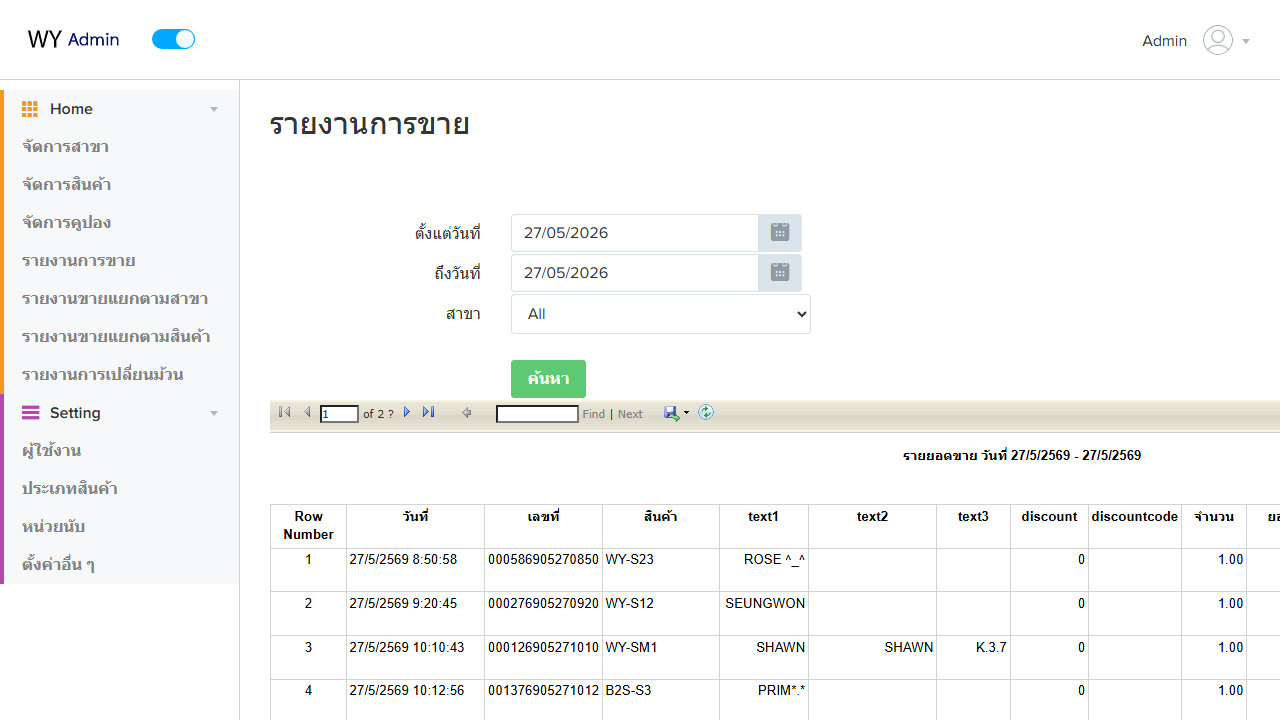
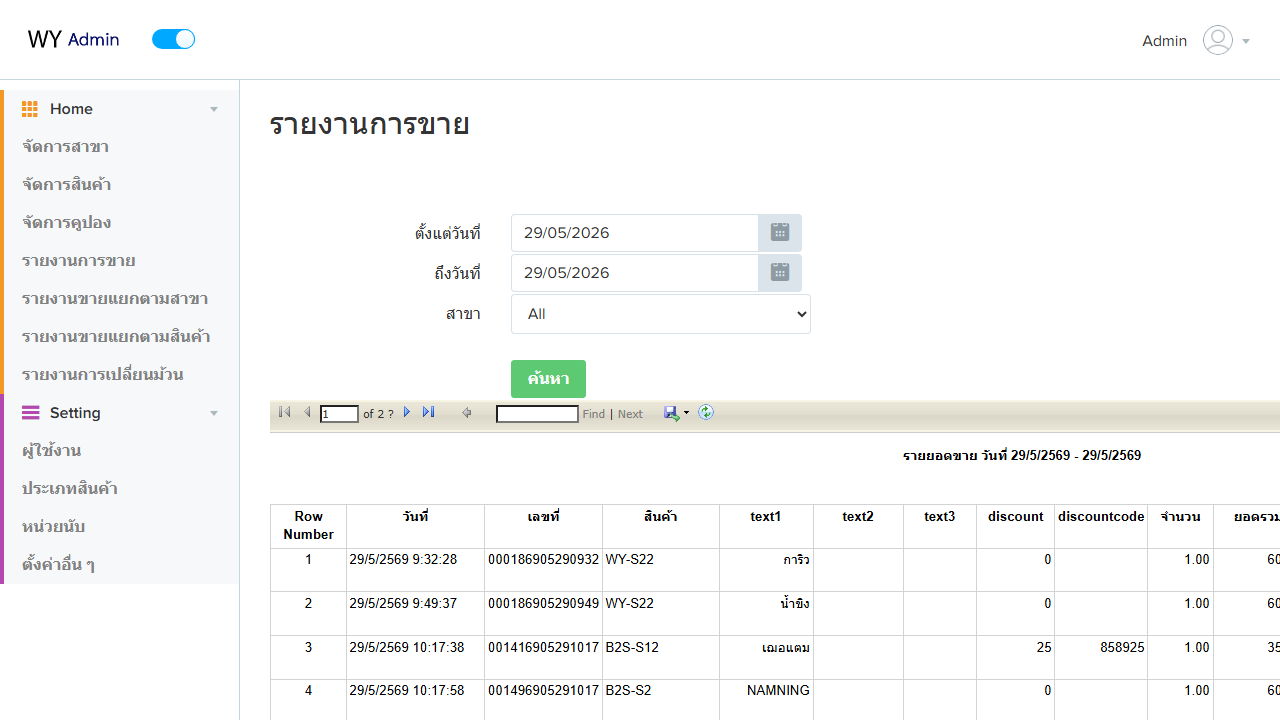
update_30/5/69

diff --git a/src/pages/Printer.tsx b/src/pages/Printer.tsx
@@ -2,6 +2,10 @@ import { useState, useEffect, useMemo, useCallback, useRef } from 'react'
 import { createPortal } from 'react-dom'
 import { supabase } from '../lib/supabase'
 import { fetchBranchOnlineMap } from '../lib/sheetCSV'
+import { useBranches } from '../hooks/useBranches'
+import { extractBranchNumForQueue } from '../lib/printerCommandQueue'
+import { extractBranchNum } from '../lib/printerStock'
+import type { Branch, StoreGroup } from '../types'
 import {
   DEFAULT_LOW_STOCK_THRESHOLD,
   ROWS_PER_ROLL,
@@ -99,6 +103,16 @@ function sortPrinters(printers: PrinterRecord[]): PrinterRecord[] {
   return [...printers].sort((a, b) => a.printer_id.localeCompare(b.printer_id))
 }
 
+function isPrinterNormal(p: PrinterRecord): boolean {
+  return p.status === 'online' || p.status === 'printing'
+}
+
+function filterProblemBranchGroups(groups: PrinterRecord[][]): PrinterRecord[][] {
+  return groups
+    .map((printers) => printers.filter((p) => !isPrinterNormal(p)))
+    .filter((printers) => printers.length > 0)
+}
+
 /** นาที — ถ้าสาขายังมีเครื่องที่ report อยู่ ให้ซ่อนเครื่องที่ไม่ report นานกว่านี้ (ลบออกจาก config แล้ว) */
 const STALE_PRINTER_MINUTES = 15
 
@@ -108,6 +122,43 @@ function filterActivePrinters(printers: PrinterRecord[]): PrinterRecord[] {
   const hasFresh = sorted.some((p) => minutesSince(p.timestamp) < STALE_PRINTER_MINUTES)
   if (!hasFresh) return sorted
   return sorted.filter((p) => minutesSince(p.timestamp) < STALE_PRINTER_MINUTES)
+}
+
+function buildBranchNumToStoreGroup(branches: Branch[]): Map<string, string> {
+  const map = new Map<string, string>()
+  for (const b of branches) {
+    const num = extractBranchNumForQueue(b.name)
+    if (num) map.set(num, b.store_group_id)
+    const norm = extractBranchNum(b.name)
+    if (norm) map.set(norm, b.store_group_id)
+  }
+  return map
+}
+
+function resolveStoreGroupId(
+  branchId: string | null | undefined,
+  branchName: string,
+  lookup: Map<string, string>
+): string | undefined {
+  const keys = new Set<string>()
+  const id = branchId?.trim()
+  if (id) {
+    keys.add(id)
+    const fromId = extractBranchNumForQueue(id)
+    if (fromId) keys.add(fromId)
+    const normId = extractBranchNum(id)
+    if (normId) keys.add(normId)
+  }
+  const fromName = extractBranchNumForQueue(branchName)
+  if (fromName) keys.add(fromName)
+  const normName = extractBranchNum(branchName)
+  if (normName) keys.add(normName)
+
+  for (const key of keys) {
+    const groupId = lookup.get(key)
+    if (groupId) return groupId
+  }
+  return undefined
 }
 
 function groupByBranch(records: PrinterRecord[]): PrinterRecord[][] {
@@ -393,8 +444,17 @@ function isBranchMachineOffline(
 
 export function Printer() {
   const { data, branchOnlineMap, loading, error, lastRefresh, refresh } = usePrinterStatus()
+  const { storeGroups, branches, loading: branchLoading } = useBranches()
   const [search, setSearch] = useState('')
+  const [filterGroupId, setFilterGroupId] = useState('')
+  const [showProblemOnly, setShowProblemOnly] = useState(false)
   const [toast, setToast] = useState<Toast | null>(null)
+  const listRef = useRef<HTMLDivElement>(null)
+
+  const branchNumToStoreGroup = useMemo(
+    () => buildBranchNumToStoreGroup(branches),
+    [branches]
+  )
 
   useEffect(() => {
     if (!toast) return
@@ -405,10 +465,21 @@ export function Printer() {
   // Group by branch — ซ่อนเครื่องที่ไม่ได้ report แล้ว (เช่น ลบออกจาก config)
   const activeBranchGroups = useMemo(() => groupByBranch(data), [data])
 
-  const branchGroups = useMemo(() => {
-    const q = search.trim().toLowerCase()
-    if (!q) return activeBranchGroups
+  const groupFilteredBranchGroups = useMemo(() => {
+    if (!filterGroupId) return activeBranchGroups
     return activeBranchGroups.filter((printers) => {
+      const branch = printers[0]
+      return (
+        resolveStoreGroupId(branch.branch_id, branch.branch_name, branchNumToStoreGroup) ===
+        filterGroupId
+      )
+    })
+  }, [activeBranchGroups, filterGroupId, branchNumToStoreGroup])
+
+  const searchedBranchGroups = useMemo(() => {
+    const q = search.trim().toLowerCase()
+    if (!q) return groupFilteredBranchGroups
+    return groupFilteredBranchGroups.filter((printers) => {
       const branch = printers[0]
       return (
         branch.branch_name.toLowerCase().includes(q) ||
@@ -416,14 +487,31 @@ export function Printer() {
         printers.some((p) => p.printer_name.toLowerCase().includes(q))
       )
     })
-  }, [activeBranchGroups, search])
+  }, [groupFilteredBranchGroups, search])
 
-  // Summary counts (นับเฉพาะเครื่องที่ยัง active)
+  const branchGroups = useMemo(() => {
+    if (!showProblemOnly) return searchedBranchGroups
+    return filterProblemBranchGroups(searchedBranchGroups)
+  }, [searchedBranchGroups, showProblemOnly])
+
+  const toggleProblemFilter = useCallback(() => {
+    setShowProblemOnly((v) => {
+      const next = !v
+      if (next) {
+        requestAnimationFrame(() => {
+          listRef.current?.scrollIntoView({ behavior: 'smooth', block: 'start' })
+        })
+      }
+      return next
+    })
+  }, [])
+
+  // Summary counts (นับเฉพาะเครื่องที่ยัง active — ตามตัวกรองประเภทร้าน)
   const summary = useMemo(() => {
-    const active = activeBranchGroups.flat()
+    const active = groupFilteredBranchGroups.flat()
     const total = active.length
-    const normal = active.filter((r) => r.status === 'online' || r.status === 'printing').length
-    const problem = active.filter((r) => r.status !== 'online' && r.status !== 'printing').length
+    const normal = active.filter(isPrinterNormal).length
+    const problem = active.filter((r) => !isPrinterNormal(r)).length
     const monitorOffline = active.filter(
       (r) => getMonitorHealth(minutesSince(r.timestamp)) === 'offline'
     ).length
@@ -433,7 +521,7 @@ export function Printer() {
         .map((r) => r.branch_id)
     ).size
     return { total, normal, problem, monitorOffline, machineOffline }
-  }, [activeBranchGroups, branchOnlineMap])
+  }, [groupFilteredBranchGroups, branchOnlineMap])
 
   return (
     <div className="space-y-4">
@@ -478,9 +566,23 @@ export function Printer() {
             <p className="text-xl font-bold text-green-700 mt-1">{summary.normal}</p>
             <p className="text-xs text-green-600 mt-0.5">ปกติ</p>
           </div>
-          <div
-            className={`rounded-xl p-3 text-center border ${
-              summary.problem > 0 ? 'bg-red-50 border-red-200' : 'bg-gray-50 border-gray-200'
+          <button
+            type="button"
+            onClick={toggleProblemFilter}
+            disabled={summary.problem === 0}
+            title={
+              summary.problem > 0
+                ? showProblemOnly
+                  ? 'แสดงรายการทั้งหมด'
+                  : 'แสดงเฉพาะปริ้นเตอร์ที่มีปัญหา'
+                : 'ไม่มีปริ้นเตอร์ที่มีปัญหา'
+            }
+            className={`rounded-xl p-3 text-center border transition-all active:scale-[0.98] ${
+              summary.problem > 0
+                ? showProblemOnly
+                  ? 'bg-red-100 border-red-400 ring-2 ring-red-300 shadow-sm'
+                  : 'bg-red-50 border-red-200 hover:bg-red-100 cursor-pointer'
+                : 'bg-gray-50 border-gray-200 cursor-default opacity-60'
             }`}
           >
             <p className="text-xl">⚠️</p>
@@ -497,8 +599,11 @@ export function Printer() {
               }`}
             >
               มีปัญหา
+              {showProblemOnly && summary.problem > 0 && (
+                <span className="block text-[10px] font-semibold mt-0.5">กำลังกรอง ✓</span>
+              )}
             </p>
-          </div>
+          </button>
           <div
             className={`rounded-xl p-3 text-center border ${
               summary.monitorOffline > 0
@@ -545,6 +650,53 @@ export function Printer() {
         </div>
       )}
 
+      {/* Store group filter */}
+      {activeBranchGroups.length > 0 && !branchLoading && storeGroups.length > 0 && (
+        <div>
+          <label className="text-xs font-medium text-gray-500 mb-2 block">ประเภทร้าน</label>
+          <div className="flex gap-2 flex-wrap">
+            <button
+              type="button"
+              onClick={() => setFilterGroupId('')}
+              className={`px-3 py-1.5 rounded-xl text-xs font-semibold transition-all active:scale-95
+                ${!filterGroupId ? 'bg-pink-600 text-white shadow-sm' : 'bg-gray-100 text-gray-600 hover:bg-gray-200'}`}
+            >
+              ทั้งหมด
+            </button>
+            {storeGroups.map((sg: StoreGroup) => (
+              <button
+                key={sg.id}
+                type="button"
+                onClick={() => setFilterGroupId(sg.id === filterGroupId ? '' : sg.id)}
+                className={`px-3 py-1.5 rounded-xl text-xs font-semibold transition-all active:scale-95
+                  ${filterGroupId === sg.id ? 'bg-pink-600 text-white shadow-sm' : 'bg-gray-100 text-gray-600 hover:bg-gray-200'}`}
+              >
+                {sg.name}
+              </button>
+            ))}
+          </div>
+        </div>
+      )}
+
+      {/* Problem filter banner */}
+      {showProblemOnly && summary.problem > 0 && (
+        <div className="flex items-center justify-between gap-2 bg-red-50 border border-red-200 rounded-xl px-4 py-2.5">
+          <p className="text-sm text-red-800">
+            <span className="font-semibold">แสดงเฉพาะปริ้นเตอร์ที่มีปัญหา</span>
+            <span className="text-red-600 ml-1">
+              · {branchGroups.length} สาขา · {summary.problem} เครื่อง
+            </span>
+          </p>
+          <button
+            type="button"
+            onClick={() => setShowProblemOnly(false)}
+            className="text-xs font-semibold text-red-700 bg-white border border-red-200 px-2.5 py-1 rounded-lg hover:bg-red-100 flex-shrink-0"
+          >
+            แสดงทั้งหมด
+          </button>
+        </div>
+      )}
+
       {/* Search */}
       {activeBranchGroups.length > 0 && (
         <div className="relative">
@@ -586,25 +738,50 @@ export function Printer() {
         </div>
       )}
 
-      {/* No search results */}
-      {!loading && search && branchGroups.length === 0 && activeBranchGroups.length > 0 && (
+      {/* No filter / search results */}
+      {!loading &&
+        branchGroups.length === 0 &&
+        activeBranchGroups.length > 0 &&
+        (search || filterGroupId || showProblemOnly) && (
         <div className="bg-white rounded-2xl border border-gray-100 p-8 text-center">
-          <p className="text-3xl mb-2">🔍</p>
-          <p className="text-gray-400 text-sm">ไม่พบสาขาที่ค้นหา</p>
+          <p className="text-3xl mb-2">{showProblemOnly ? '✅' : search ? '🔍' : '🏪'}</p>
+          <p className="text-gray-400 text-sm">
+            {showProblemOnly
+              ? search
+                ? 'ไม่พบปริ้นเตอร์ที่มีปัญหาตามคำค้นหา'
+                : filterGroupId
+                ? `ไม่มีปริ้นเตอร์ที่มีปัญหาในประเภท ${storeGroups.find((g) => g.id === filterGroupId)?.name ?? ''}`
+                : 'ไม่มีปริ้นเตอร์ที่มีปัญหาในขณะนี้'
+              : search
+              ? 'ไม่พบสาขาที่ค้นหา'
+              : `ไม่มีสาขาในประเภท ${storeGroups.find((g) => g.id === filterGroupId)?.name ?? ''}`}
+          </p>
+          {showProblemOnly && (
+            <button
+              type="button"
+              onClick={() => setShowProblemOnly(false)}
+              className="mt-3 text-xs font-semibold text-pink-600 hover:text-pink-700"
+            >
+              แสดงรายการทั้งหมด
+            </button>
+          )}
         </div>
       )}
 
       {/* Branch cards */}
       {!loading && branchGroups.length > 0 && (
-        <div className="space-y-3">
+        <div ref={listRef} className="space-y-3">
           {branchGroups.map((printers) => {
             const branch = printers[0]
+            const groupName = storeGroups.find(
+              (g) =>
+                g.id ===
+                resolveStoreGroupId(branch.branch_id, branch.branch_name, branchNumToStoreGroup)
+            )?.name
             const maxMins = Math.max(...printers.map((p) => minutesSince(p.timestamp)))
             const monitorHealth = getMonitorHealth(maxMins)
             const machineOffline = isBranchMachineOffline(branch.branch_id, branchOnlineMap)
-            const hasProblem = printers.some(
-              (p) => p.status !== 'online' && p.status !== 'printing'
-            )
+            const hasProblem = printers.some((p) => !isPrinterNormal(p))
 
             return (
               <section
@@ -632,6 +809,11 @@ export function Printer() {
                   }`}
                 >
                   <div className="flex items-center gap-2 min-w-0">
+                    {groupName && (
+                      <span className="flex-shrink-0 text-xs font-bold bg-purple-600 text-white px-2 py-0.5 rounded">
+                        {groupName}
+                      </span>
+                    )}
                     <span className="flex-shrink-0 text-xs font-bold bg-pink-600 text-white px-2 py-0.5 rounded">
                       {branch.branch_id ?? '—'}
                     </span>
@@ -655,7 +837,11 @@ export function Printer() {
                         ⏱ ช้ากว่าปกติ
                       </span>
                     )}
-                    <span className="text-xs text-gray-400">{printers.length} เครื่อง</span>
+                    <span className="text-xs text-gray-400">
+                      {showProblemOnly
+                        ? `${printers.length} เครื่องมีปัญหา`
+                        : `${printers.length} เครื่อง`}
+                    </span>
                   </div>
                 </div>
 